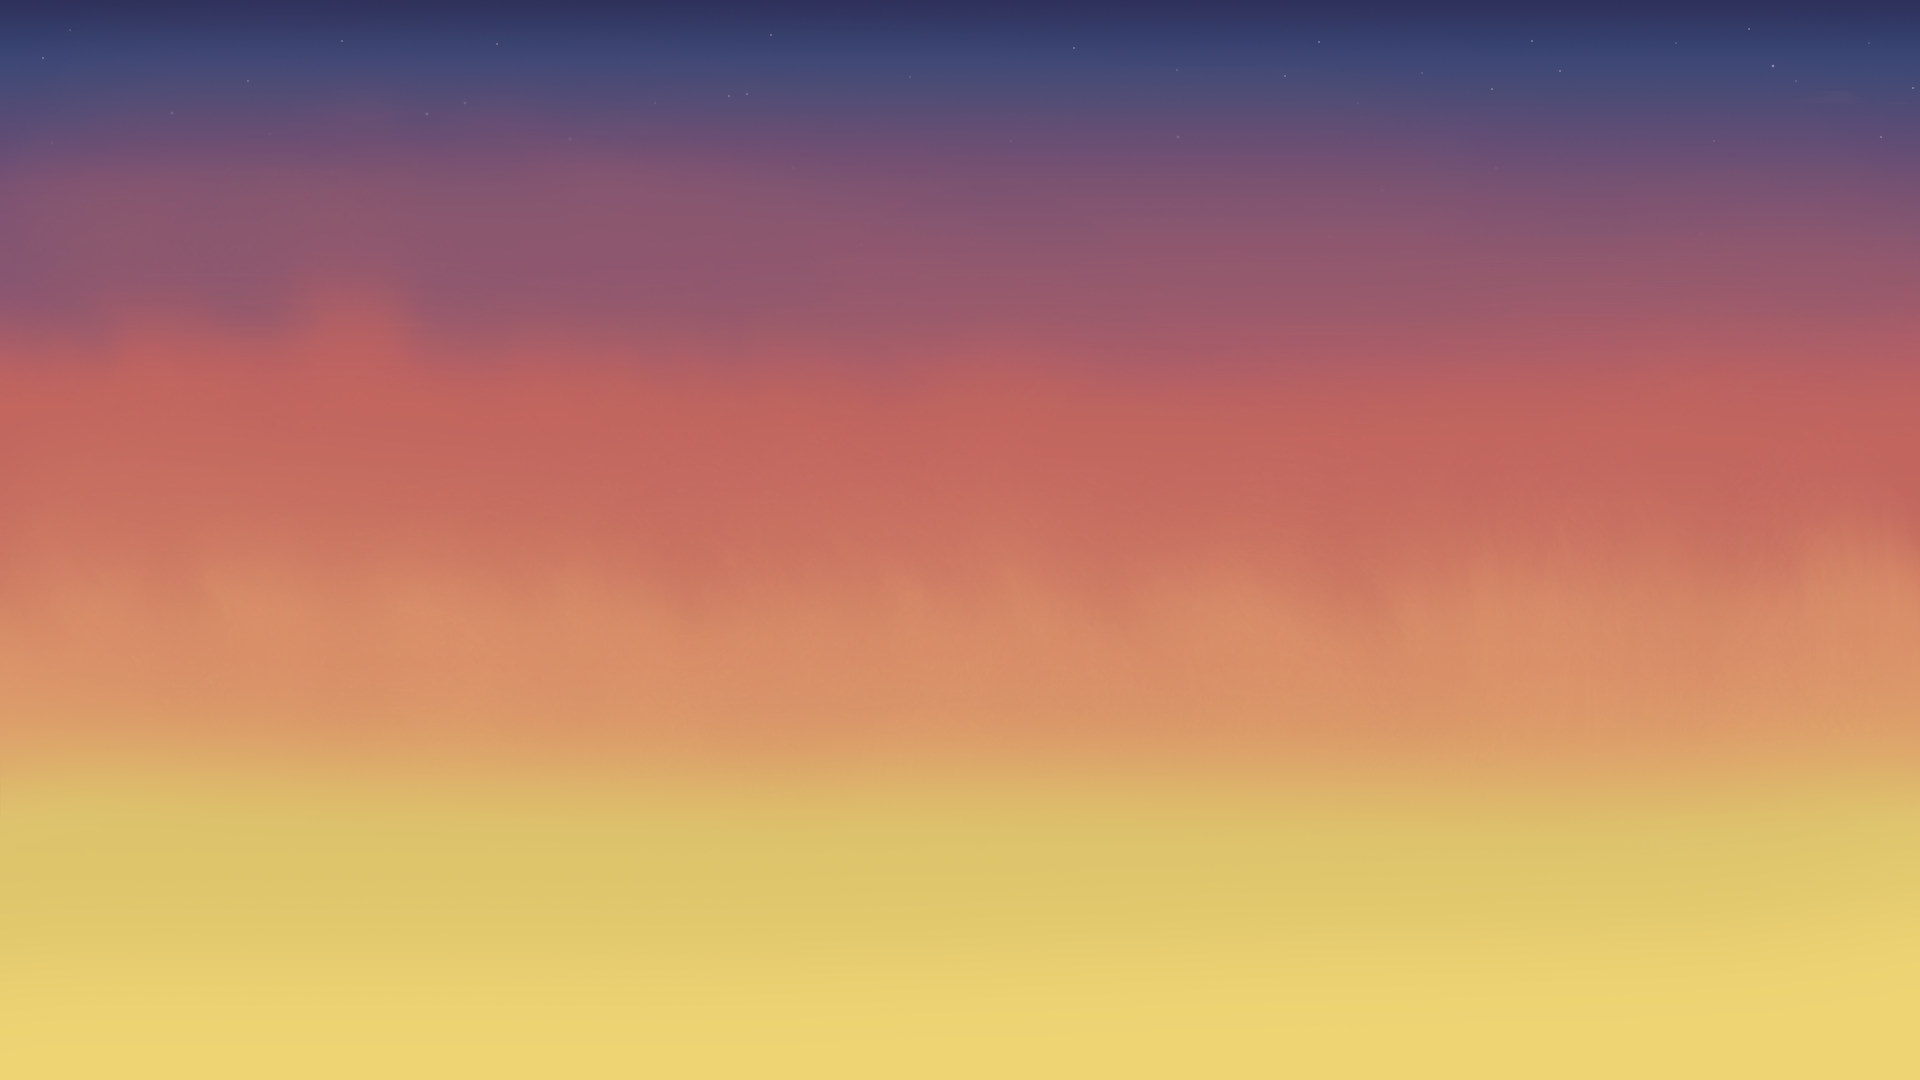
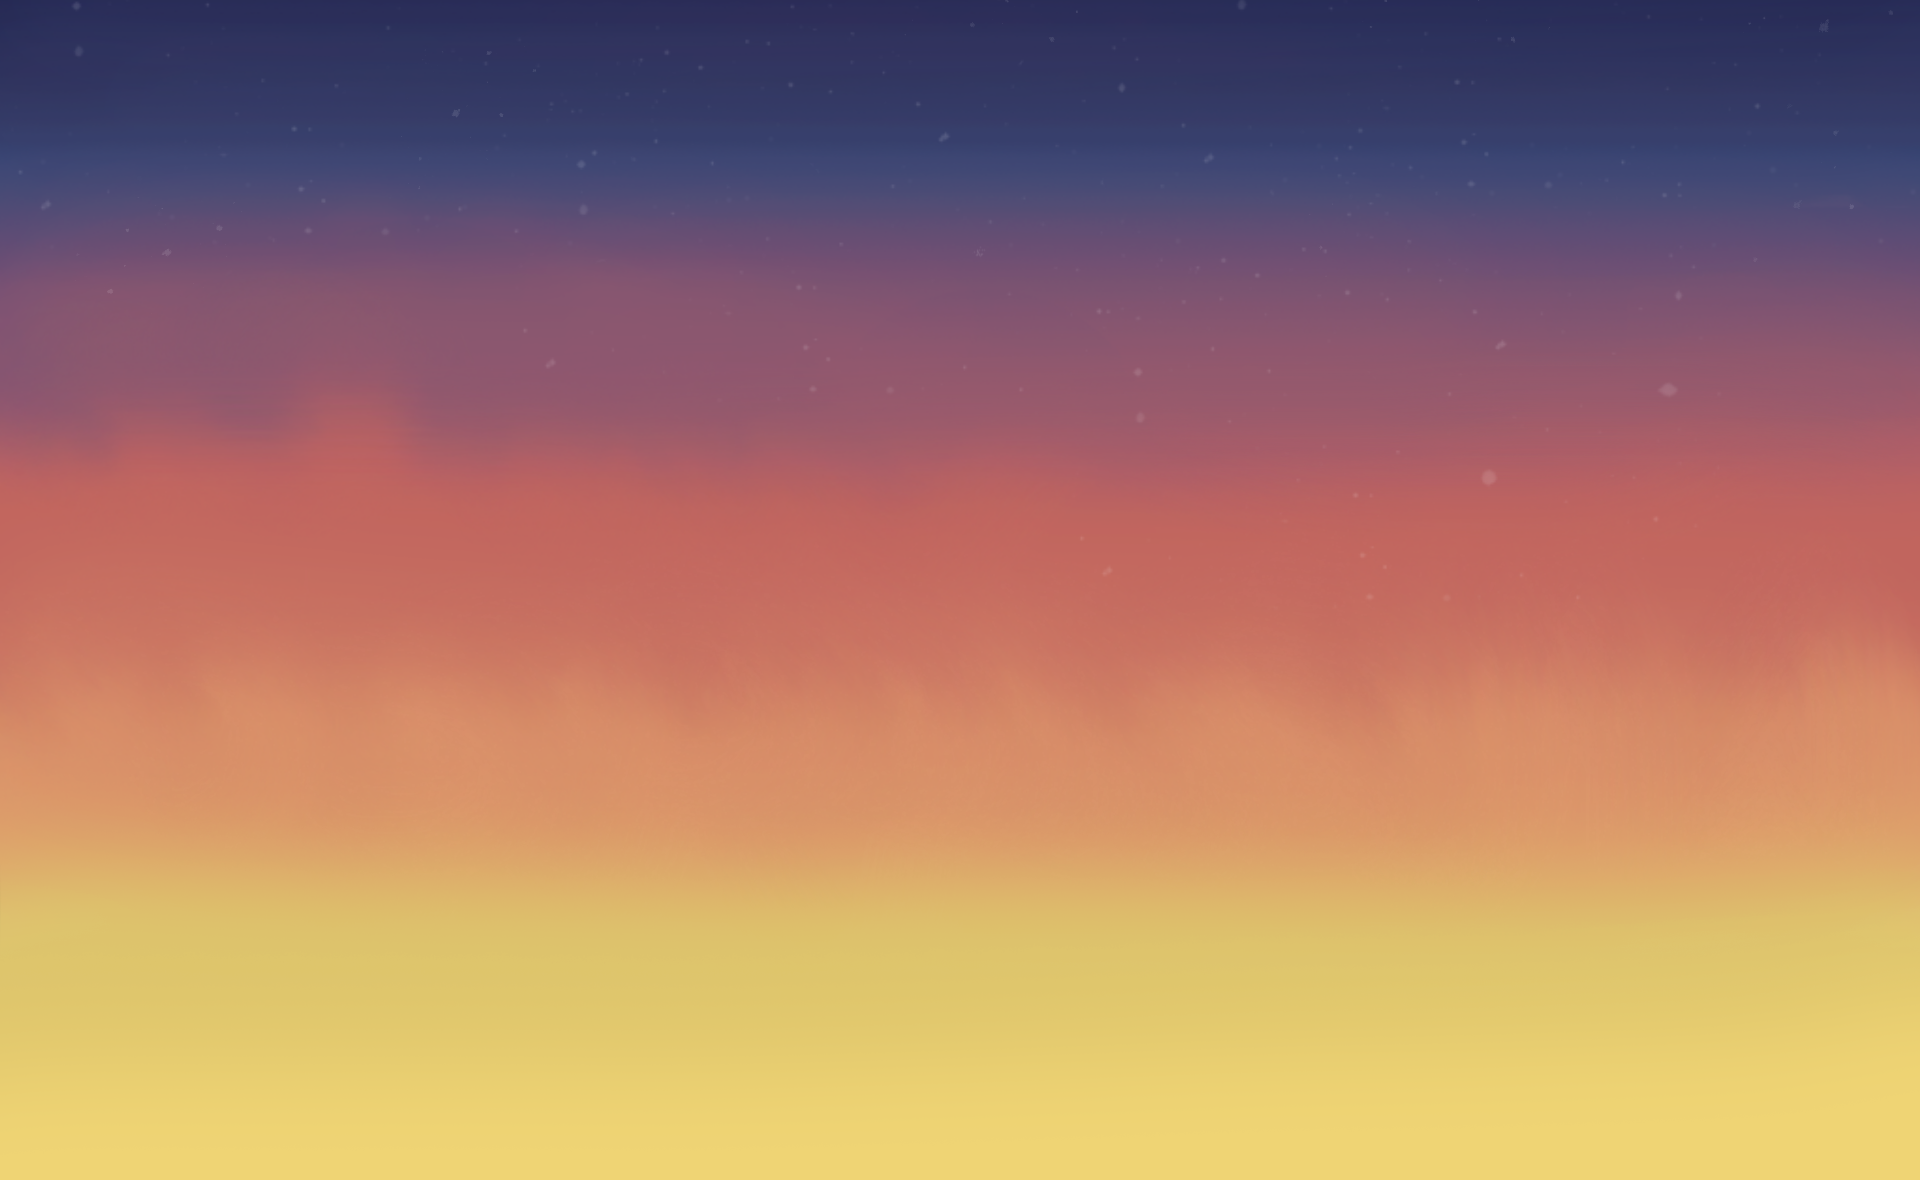
style: animation higher background

Changed region(s): [[0.0, 0.0611, 1.0, 0.3972]]

diff --git a/components/Animation.jsx b/components/Animation.jsx
@@ -67,74 +67,75 @@ const Animation = () => {
            start: "top top",
            endtrigger: ".hero",
            end: () => "10% top",
-      
          },
        });
        const ctx = gsap.context(() => {
          tl.to(element.querySelector(".foreground"), { y: "0px" });
        }, element);
      }, []);
-  
-       useLayoutEffect(() => {
-         const element = ref.current;
-         var tl = gsap.timeline({
-           scrollTrigger: {
-             trigger: "#animation",
-             scrub: 3,
-             pin: ".wrapper",
-             pinnedContainer: ".wrapper",
-             start: "top top",
-             endtrigger: ".hero",
-             end: () => "10% top" ,
-           
-           },
-         });
-         const ctx = gsap.context(() => {
-           tl.to(element.querySelector(".sun"), { y: "0px" });
-         }, element);
-       }, []);
 
+     useLayoutEffect(() => {
+       const element = ref.current;
+       var tl = gsap.timeline({
+         scrollTrigger: {
+           trigger: "#animation",
+           scrub: 3,
+           pin: ".wrapper",
+           pinnedContainer: ".wrapper",
+           start: "top top",
+           endtrigger: ".hero",
+           end: () => "15% top",
+         },
+       });
+       const ctx = gsap.context(() => {
+         tl.to(element.querySelector(".sun"), { y: "0px" });
+       }, element);
+     }, []);
 
+     return (
+       <>
+         <div
+           ref={ref}
+           style={{
+             backgroundImage: `url(${gradient.src})`,
+           }}
+           className="min-h-[120vh] relative translate-y-[-88px] object-cover bcg "
+         >
+           <div
+             className="absolute top-[40%] xxs:top-[39%] xs:top-[38%] sm:top-[30%] md:top-[34%] lg:top-[5%] xl:top-[10%] 2xl:top-[3%] 3xl:top-[0%]"
+             style={{ left: "-200px", zIndex: 5 }}
+           >
+             <Image className="hill_left " src={hill_left} objectFit="cover" />
+           </div>
 
-  return (
-    <>
-      <div
-        ref={ref}
-        style={{
-          backgroundImage: `url(${gradient.src})`,
-        }}
-        className="min-h-[100vh] relative translate-y-[-88px] object-cover bcg "
-      >
-        <div
-          className="absolute top-[35%] xxs:top-[35%] xs:top-[35%] sm:top-[33%] md:top-[30%] lg:top-[5%] xl:top-0 2xl:top-[-7%] 3xl:top-[0%]"
-          style={{ left: "-200px", zIndex: 5 }}
-        >
-          <Image className="hill_left " src={hill_left} objectFit="cover" />
-        </div>
+           <div
+             className="absolute top-[40%] xxs:top-[41%] xs:top-[40%] sm:top-[35%] md:top-[37%] lg:top-[5%] xl:top-[10%] 2xl:top-[0%] 3xl:top-[0%]"
+             style={{ right: " -200px", zIndex: 4 }}
+           >
+             <Image className="hill_right" src={hill_right} objectFit="cover" />
+           </div>
 
-        <div
-          className="absolute top-[35%] xxs:top-[35%] xs:top-[35%] sm:top-[32%] md:top-[30%] lg:top-[5%] xl:top-0 2xl:top-[-10%] 3xl:top-[0%]"
-          style={{ right: " -200px", zIndex: 4 }}
-        >
-          <Image className="hill_right" src={hill_right} objectFit="cover" />
-        </div>
-
-        <Image
-          className="absolute foreground z-20 w-full translate-y-[350px]"
-          src={foreground}
-          objectFit="cover"
-          layout="fill"
-        />
-        <Image
-          className="absolute sun z-4 w-full translate-y-[-680px]"
-          src={sun}
-          objectFit="cover"
-          layout="fill"
-        />
-        <Image className="z-10" src={river} layout="fill" objectFit="cover" />
-      </div>
-    </>
-  );
+           <Image
+             className="absolute foreground z-20 w-full translate-y-[350px]"
+             src={foreground}
+             objectFit="cover"
+             layout="fill"
+           />
+           <Image
+             className="absolute sun z-4 w-full translate-y-[-750px]"
+             src={sun}
+             objectFit="cover"
+             layout="fill"
+           />
+           <Image
+             className="z-10 translate-y-[0px] overflow-visible"
+             src={river}
+             layout="fill"
+             objectFit="cover"
+           />
+         </div>
+       </>
+     );
 };;
 
 export default Animation;

diff --git a/components/Projects.tsx b/components/Projects.tsx
@@ -3,6 +3,7 @@ import { projects } from "../data";
 import { Project } from "../interfaces";
 import Carousel from "react-multi-carousel";
 import "react-multi-carousel/lib/styles.css";
+import { DotProps } from "react-multi-carousel/lib/types";
 
 type Props = {
   // projects: Project[];
@@ -27,6 +28,15 @@ const Projects = (props: Props) => {
     },
   };
 
+  const CustomDot = ({ index, active, onClick }: DotProps) => {
+    return (
+      <li
+        className={`${active ? "active" : ""} slickdot`}
+        onClick={() => onClick?.()}
+      ></li>
+    );
+  };
+
   return (
     <>
       <h3 className="sectionHeader">Projects</h3>
@@ -41,23 +51,24 @@ const Projects = (props: Props) => {
         {/* <div className="relative w-full flex "> */}
         {/* Projects */}
         <Carousel
-          swipeable={false}
+          swipeable={true}
           draggable={false}
           showDots={true}
           responsive={responsive}
           ssr={true} // means to render carousel on server-side.
           infinite={true}
           keyBoardControl={true}
-          // customTransition="all .5"
-          transitionDuration={500}
+          transitionDuration={1000}
           containerClass={`w-[100%]`}
           removeArrowOnDeviceType={["tablet", "mobile"]}
-          // dotListClass="custom-dot-list-style"
+          dotListClass=""
+          customDot={<CustomDot />}
+          focusOnSelect={true}
           itemClass={``}
         >
           {projects.map((project, i) => {
             return (
-              <div className="w-screen flex-shrink-0 flex flex-col space-y-5 items-center justify-center md:p-48 h-screen">
+              <div className="w-screen flex-shrink-0 flex flex-col space-y-5 items-center justify-center md:p-20 lg:p-28 xl:p-46 h-screen p-8 ">
                 <motion.img
                   initial={{
                     y: -300,
@@ -70,7 +81,7 @@ const Projects = (props: Props) => {
                   alt={project.title}
                   className="max-w-[90%] xl:max-w-[80%] xl:max-h-[80%]"
                 />
-                <div className="space-y-8 max-w-6xl">
+                <div className="space-y-8 max-w-6xl items-center justify-center text-center">
                   <h4 className="text-4xl font-semibold text-center ">
                     {project.title}
                   </h4>
@@ -84,7 +95,7 @@ const Projects = (props: Props) => {
                     ))}
                   </div>
 
-                  <p className="text-lg md:text-left text-justify max-w-[90%] xl:max-w-[80%] ">
+                  <p className="text-lg md:text-left text-justify max-w-[90%] xl:max-w-[80%] mx-auto">
                     {project.summary}
                   </p>
                 </div>

diff --git a/pages/index.tsx b/pages/index.tsx
@@ -22,7 +22,7 @@ const Home: NextPage = () => {
 
   return (
     // <div className="bg-[rgb(36,36,36)] h-screen text-white snap-y snap-proximity overflow-y-scroll overflow-x-hidden z-0 scroll-smooth scrollbar scrollbar-track-gray-400/20 scrollbar-thumb-[#F7AB0A]/70">
-    <div className="bg-slate-900 text-white overflow-x-hidden z-0">
+    <div className="bg-slate-900 text-white overflow-x-hidden z-0 overflow-y-hidden">
       <Head>
         <title>Aliz's stuff</title>
         <meta name="description" content="Portfolio" />
@@ -35,11 +35,11 @@ const Home: NextPage = () => {
 
       <Header />
       <div className="wrapper">
-        <section className="" id="animation">
+        <section className="h-[120vh] overflow-visible" id="animation">
           <Animation />
         </section>
+        <div className="translate-y-[-89px] h-[25rem] w-full bg-gradient-to-b from-[#251e3d] to-transparent"></div>
         {/* blending colors */}
-        <div className="translate-y-[-90px] h-[20rem] w-full bg-gradient-to-b from-[#251e3d] to-transparent"></div>
 
         <section id="hero" className="snap">
           <Hero />

diff --git a/styles/globals.css b/styles/globals.css
@@ -59,7 +59,13 @@
       @apply before:content-["▹"] before:text-[#bf665f]
     }
 
+    .slickdot{
+      @apply h-[15px] w-[15px]  bg-gray-500/20 rounded-full cursor-pointer mr-2 
+    }
+    .slickdot.active {
+     @apply bg-[#7c3749] shadow-inner 
 
+}
     
 }
 

diff --git a/tailwind.config.js b/tailwind.config.js
@@ -11,7 +11,7 @@ module.exports = {
     screens: {
       xxs: "375px",
       xs: "414px",
-      sm: "540px",
+      sm: "539px",
       md: "912px",
       ...defaultTheme.screens,
     },
